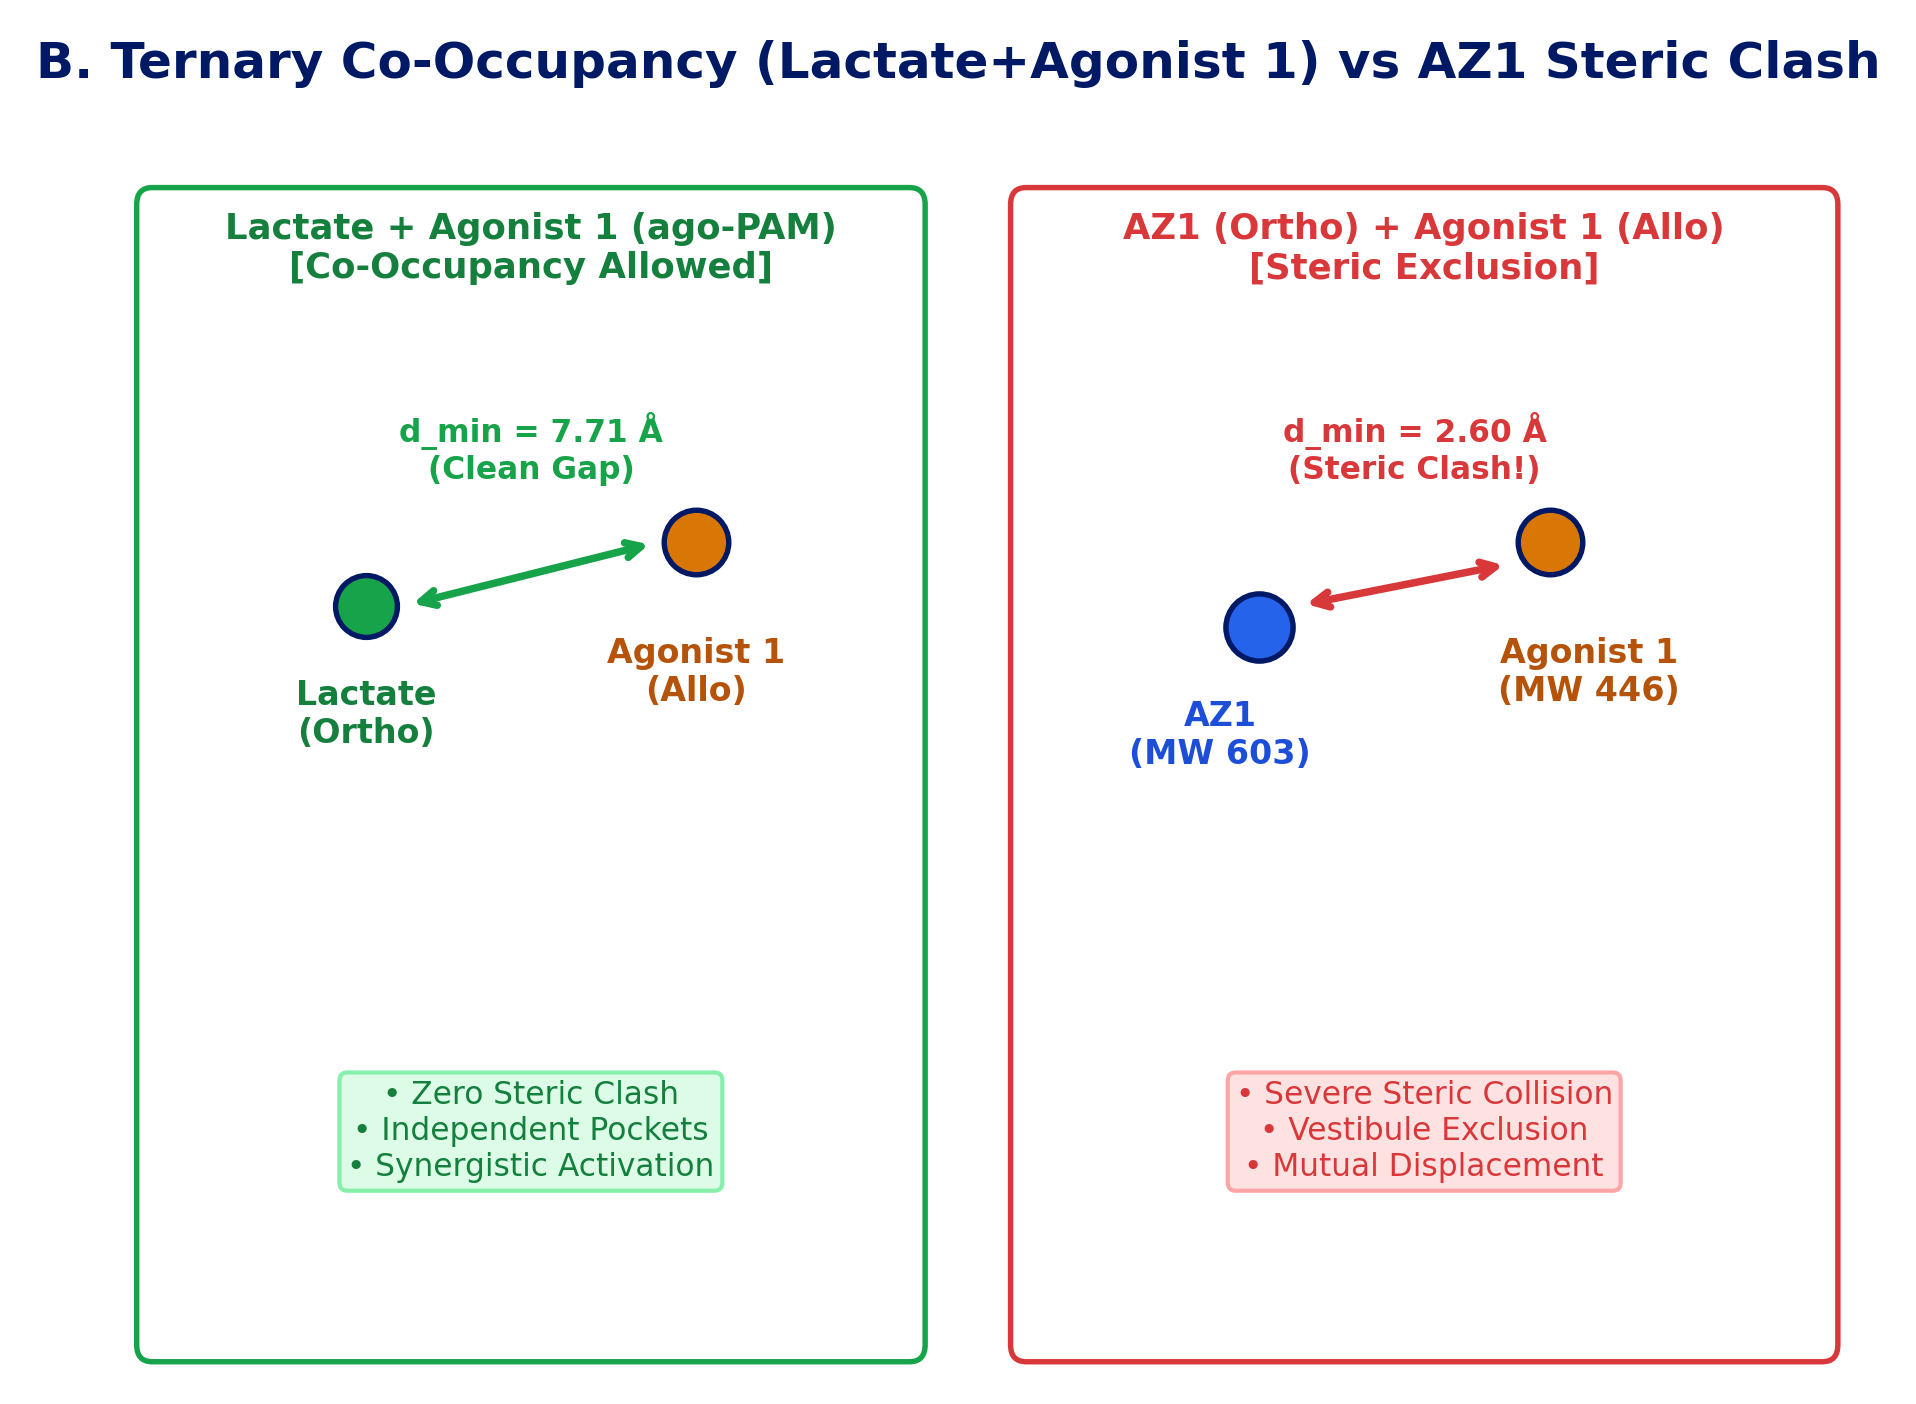
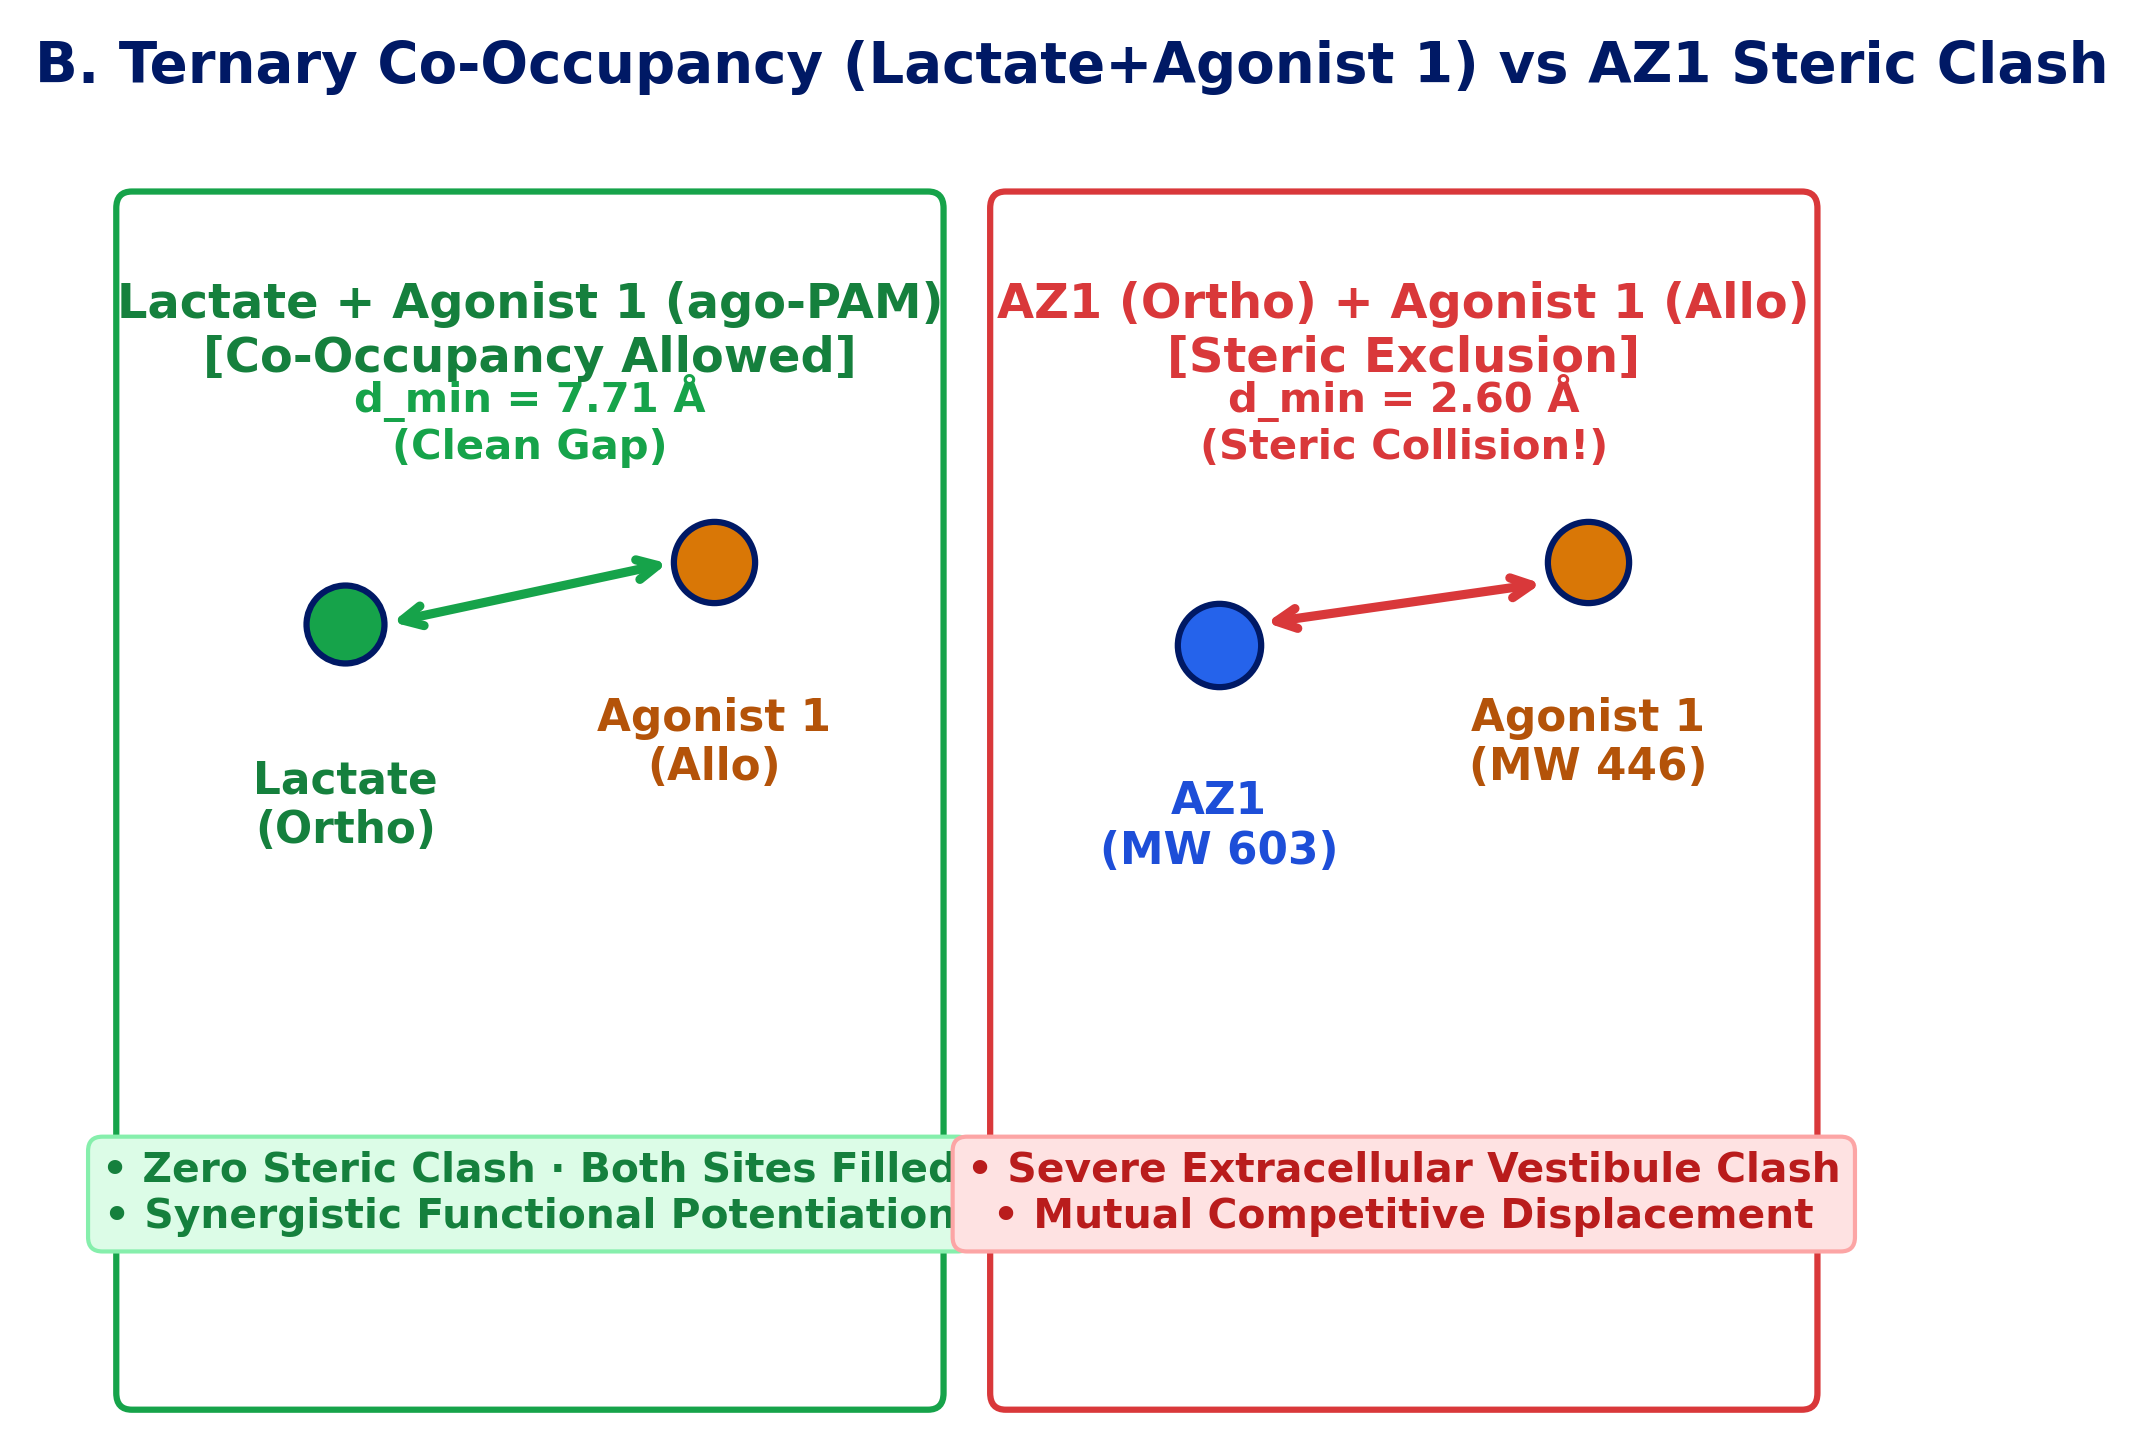
fix(gpr81): scale up font sizes by +35% in Slide 9 and Slide 10 panels for presentation legibility

diff --git a/data/gpr81_binding_modes/generate_visualizations.py b/data/gpr81_binding_modes/generate_visualizations.py
@@ -138,83 +138,88 @@ ax_a.set_ylim(1.1, 8.2)
 ax_a.axis("off")
 
 # ----------------------------------------------------------------------
-# Panel B: Ternary Co-Occupancy & Steric Exclusion
+# Panel B: Ternary Co-Occupancy & Steric Exclusion (ENLARGED HIGH-LEGIBILITY FONTS)
 # ----------------------------------------------------------------------
 ax_b = fig.add_subplot(gs[0, 1], facecolor=NN_BG)
 ax_b.set_title("B. Ternary Co-Occupancy (Lactate+Agonist 1) vs AZ1 Steric Clash", 
-               fontsize=12, fontweight="bold", color=NN_NAVY, pad=10, loc="left")
+               fontsize=13.5, fontweight="bold", color=NN_NAVY, pad=10, loc="left")
 
 # Left box: Lactate + Agonist 1
-box_left = patches.FancyBboxPatch((0.6, 1.0), 3.9, 5.4, boxstyle="round,pad=0.08", facecolor="#FFFFFF", edgecolor="#16A34A", lw=1.3)
+box_left = patches.FancyBboxPatch((0.5, 0.7), 4.1, 5.7, boxstyle="round,pad=0.08", facecolor="#FFFFFF", edgecolor="#16A34A", lw=1.5)
 ax_b.add_patch(box_left)
-ax_b.text(2.55, 6.05, "Lactate + Agonist 1 (ago-PAM)\n[Co-Occupancy Allowed]", ha="center", fontsize=8.5, fontweight="bold", color="#15803D")
+ax_b.text(2.55, 6.05, "Lactate + Agonist 1 (ago-PAM)\n[Co-Occupancy Allowed]", ha="center", va="top", fontsize=11.5, fontweight="bold", color="#15803D", linespacing=1.2)
 
-ax_b.scatter([1.7], [4.5], s=220, color="#16A34A", edgecolors=NN_NAVY, lw=1.3, zorder=5)
-ax_b.text(1.7, 3.85, "Lactate\n(Ortho)", ha="center", fontsize=8, fontweight="bold", color="#15803D")
+ax_b.scatter([1.6], [4.4], s=350, color="#16A34A", edgecolors=NN_NAVY, lw=1.5, zorder=5)
+ax_b.text(1.6, 3.75, "Lactate\n(Ortho)", ha="center", va="top", fontsize=10.5, fontweight="bold", color="#15803D")
 
-ax_b.scatter([3.4], [4.8], s=240, color=NN_AMBER, edgecolors=NN_NAVY, lw=1.3, zorder=5)
-ax_b.text(3.4, 4.05, "Agonist 1\n(Allo)", ha="center", fontsize=8, fontweight="bold", color="#B45309")
+ax_b.scatter([3.5], [4.7], s=380, color=NN_AMBER, edgecolors=NN_NAVY, lw=1.5, zorder=5)
+ax_b.text(3.5, 4.05, "Agonist 1\n(Allo)", ha="center", va="top", fontsize=10.5, fontweight="bold", color="#B45309")
 
-ax_b.annotate("", xy=(3.2, 4.8), xytext=(1.9, 4.5),
-              arrowprops=dict(arrowstyle="<->", color="#16A34A", lw=1.8, mutation_scale=9))
-ax_b.text(2.55, 5.1, "d_min = 7.71 Å\n(Clean Gap)", ha="center", fontsize=7.5, fontweight="bold", color="#16A34A")
+ax_b.annotate("", xy=(3.3, 4.7), xytext=(1.8, 4.4),
+              arrowprops=dict(arrowstyle="<->", color="#16A34A", lw=2.2, mutation_scale=12))
+ax_b.text(2.55, 5.15, "d_min = 7.71 Å\n(Clean Gap)", ha="center", va="bottom", fontsize=10.0, fontweight="bold", color="#16A34A")
 
-ax_b.text(2.55, 1.8, "• Zero Steric Clash\n• Independent Pockets\n• Synergistic Activation", 
-          ha="center", fontsize=7.5, color="#15803D", bbox=dict(boxstyle="round,pad=0.25", facecolor="#DCFCE7", edgecolor="#86EFAC"))
+ax_b.text(2.55, 1.45, "• Zero Steric Clash · Both Sites Filled\n• Synergistic Functional Potentiation", 
+          ha="center", va="bottom", fontsize=9.8, fontweight="bold", color="#15803D",
+          bbox=dict(boxstyle="round,pad=0.35", facecolor="#DCFCE7", edgecolor="#86EFAC", lw=1.0))
 
 # Right box: AZ1 + Agonist 1
-box_right = patches.FancyBboxPatch((5.1, 1.0), 4.1, 5.4, boxstyle="round,pad=0.08", facecolor="#FFFFFF", edgecolor=NN_CORAL, lw=1.3)
+box_right = patches.FancyBboxPatch((5.0, 0.7), 4.1, 5.7, boxstyle="round,pad=0.08", facecolor="#FFFFFF", edgecolor=NN_CORAL, lw=1.5)
 ax_b.add_patch(box_right)
-ax_b.text(7.15, 6.05, "AZ1 (Ortho) + Agonist 1 (Allo)\n[Steric Exclusion]", ha="center", fontsize=8.5, fontweight="bold", color=NN_CORAL)
+ax_b.text(7.05, 6.05, "AZ1 (Ortho) + Agonist 1 (Allo)\n[Steric Exclusion]", ha="center", va="top", fontsize=11.5, fontweight="bold", color=NN_CORAL, linespacing=1.2)
 
-ax_b.scatter([6.3], [4.4], s=260, color="#2563EB", edgecolors=NN_NAVY, lw=1.3, zorder=5)
-ax_b.text(6.1, 3.75, "AZ1\n(MW 603)", ha="center", fontsize=8, fontweight="bold", color="#1D4ED8")
+ax_b.scatter([6.1], [4.3], s=400, color="#2563EB", edgecolors=NN_NAVY, lw=1.5, zorder=5)
+ax_b.text(6.1, 3.65, "AZ1\n(MW 603)", ha="center", va="top", fontsize=10.5, fontweight="bold", color="#1D4ED8")
 
-ax_b.scatter([7.8], [4.8], s=240, color=NN_AMBER, edgecolors=NN_NAVY, lw=1.3, zorder=5)
-ax_b.text(8.0, 4.05, "Agonist 1\n(MW 446)", ha="center", fontsize=8, fontweight="bold", color="#B45309")
+ax_b.scatter([8.0], [4.7], s=380, color=NN_AMBER, edgecolors=NN_NAVY, lw=1.5, zorder=5)
+ax_b.text(8.0, 4.05, "Agonist 1\n(MW 446)", ha="center", va="top", fontsize=10.5, fontweight="bold", color="#B45309")
 
-ax_b.annotate("", xy=(7.6, 4.7), xytext=(6.5, 4.5),
-              arrowprops=dict(arrowstyle="<->", color=NN_CORAL, lw=1.8, mutation_scale=9))
-ax_b.text(7.1, 5.1, "d_min = 2.60 Å\n(Steric Clash!)", ha="center", fontsize=7.5, fontweight="bold", color=NN_CORAL)
+ax_b.annotate("", xy=(7.8, 4.6), xytext=(6.3, 4.4),
+              arrowprops=dict(arrowstyle="<->", color=NN_CORAL, lw=2.2, mutation_scale=12))
+ax_b.text(7.05, 5.15, "d_min = 2.60 Å\n(Steric Collision!)", ha="center", va="bottom", fontsize=10.0, fontweight="bold", color=NN_CORAL)
 
-ax_b.text(7.15, 1.8, "• Severe Steric Collision\n• Vestibule Exclusion\n• Mutual Displacement", 
-          ha="center", fontsize=7.5, color=NN_CORAL, bbox=dict(boxstyle="round,pad=0.25", facecolor="#FEE2E2", edgecolor="#FCA5A5"))
+ax_b.text(7.05, 1.45, "• Severe Extracellular Vestibule Clash\n• Mutual Competitive Displacement", 
+          ha="center", va="bottom", fontsize=9.8, fontweight="bold", color="#B91C1C",
+          bbox=dict(boxstyle="round,pad=0.35", facecolor="#FEE2E2", edgecolor="#FCA5A5", lw=1.0))
 
 ax_b.set_xlim(0, 9.6)
-ax_b.set_ylim(0.5, 6.8)
+ax_b.set_ylim(0.4, 6.8)
 ax_b.axis("off")
 
 # ----------------------------------------------------------------------
-# Panel C: HCAR1 vs HCAR2 Selectivity (Triple-Lysine Positive Wall)
+# Panel C: HCAR1 vs HCAR2 Selectivity (ENLARGED HIGH-LEGIBILITY FONTS)
 # ----------------------------------------------------------------------
 ax_c = fig.add_subplot(gs[1, 0], facecolor=NN_BG)
-ax_c.set_title("C. HCAR1 vs HCAR2 Selectivity: Anti-Flushing Charge-Flip Mechanism", 
-               fontsize=12, fontweight="bold", color=NN_NAVY, pad=10, loc="left")
+ax_c.set_title("C. HCAR1 vs HCAR2: Anti-Flushing Selectivity Mechanism", 
+               fontsize=13.0, fontweight="bold", color=NN_NAVY, pad=10, loc="left")
 
-box_h1 = patches.FancyBboxPatch((0.5, 3.5), 4.0, 2.9, boxstyle="round,pad=0.08", facecolor="#FFFFFF", edgecolor="#0284C7", lw=1.3)
+box_h1 = patches.FancyBboxPatch((0.4, 3.2), 4.3, 3.3, boxstyle="round,pad=0.08", facecolor="#FFFFFF", edgecolor="#0284C7", lw=1.5)
 ax_c.add_patch(box_h1)
-ax_c.text(2.5, 6.0, "HCAR1 (GPR81) — Agonist Tolerant", ha="center", fontsize=8.5, fontweight="bold", color="#0369A1")
-ax_c.text(2.5, 5.3, "Allosteric Pocket Motif (TM5-ECL2):", ha="center", fontsize=8, color="#475569")
-ax_c.text(2.5, 4.4, "Leu152 — Glu153 — Asn154", ha="center", fontsize=10, fontweight="bold", color="#15803D",
-          bbox=dict(boxstyle="round,pad=0.25", facecolor="#DCFCE7", edgecolor="#86EFAC"))
-ax_c.text(2.5, 3.75, "Glu153 (-1): d=2.50 Å (Strong -6.2 kcal/mol anchor)", ha="center", fontsize=7.5, color="#15803D")
+ax_c.text(2.55, 6.20, "HCAR1 (GPR81) — Agonist Tolerant", ha="center", va="top", fontsize=11.5, fontweight="bold", color="#0369A1")
+ax_c.text(2.55, 5.45, "Allosteric Pocket Motif (TM5-ECL2):", ha="center", va="top", fontsize=9.8, color="#475569")
+ax_c.text(2.55, 4.80, "Leu152 — Glu153 — Asn154", ha="center", va="top", fontsize=13.0, fontweight="bold", color="#15803D",
+          bbox=dict(boxstyle="round,pad=0.3", facecolor="#DCFCE7", edgecolor="#86EFAC", lw=1.1))
+ax_c.text(2.55, 3.75, "Glu153 (-1 charge): d = 2.50 Å\nStrong -6.2 kcal/mol H-bond Anchor", ha="center", va="top", fontsize=9.2, fontweight="bold", color="#15803D", linespacing=1.25)
 
-box_h2 = patches.FancyBboxPatch((4.9, 3.5), 4.2, 2.9, boxstyle="round,pad=0.08", facecolor="#FFFFFF", edgecolor=NN_CORAL, lw=1.3)
+box_h2 = patches.FancyBboxPatch((5.1, 3.2), 4.3, 3.3, boxstyle="round,pad=0.08", facecolor="#FFFFFF", edgecolor=NN_CORAL, lw=1.5)
 ax_c.add_patch(box_h2)
-ax_c.text(7.0, 6.0, "HCAR2 (GPR109A) — Severe Flushing", ha="center", fontsize=8.5, fontweight="bold", color=NN_CORAL)
-ax_c.text(7.0, 5.3, "Homologous Motif (PDB 8J6P):", ha="center", fontsize=8, color="#475569")
-ax_c.text(7.0, 4.4, "Lys164 — Lys165 — Lys166", ha="center", fontsize=10, fontweight="bold", color=NN_CORAL,
-          bbox=dict(boxstyle="round,pad=0.25", facecolor="#FEE2E2", edgecolor="#FCA5A5"))
-ax_c.text(7.0, 3.75, "Triple Basic (+3): Lys165 at 3.29 Å (Repulsion & Clash)", ha="center", fontsize=7.5, color=NN_CORAL)
+ax_c.text(7.25, 6.20, "HCAR2 (GPR109A) — Severe Flushing", ha="center", va="top", fontsize=11.5, fontweight="bold", color=NN_CORAL)
+ax_c.text(7.25, 5.45, "Homologous Motif (Cryo-EM PDB 8J6P):", ha="center", va="top", fontsize=9.8, color="#475569")
+ax_c.text(7.25, 4.80, "Lys164 — Lys165 — Lys166", ha="center", va="top", fontsize=13.0, fontweight="bold", color=NN_CORAL,
+          bbox=dict(boxstyle="round,pad=0.3", facecolor="#FEE2E2", edgecolor="#FCA5A5", lw=1.1))
+ax_c.text(7.25, 3.75, "Triple Basic (+3 net charge):\nLys165 (3.29 Å) Repulsion & Clash", ha="center", va="top", fontsize=9.2, fontweight="bold", color="#B91C1C", linespacing=1.25)
 
-ax_c.text(4.7, 1.8, 
-          "MOLECULAR MECHANISM FOR FLUSHING AVOIDANCE:\n"
-          "The +3 positive lysine wall (Lys164-Lys165-Lys166) in HCAR2 acts as an electrostatic barrier.\n"
-          "GPR81 agonists carrying neutral/basic RHS elements are repelled by HCAR2, eliminating flushing.",
-          ha="center", fontsize=7.8, color=NN_NAVY, bbox=dict(boxstyle="round,pad=0.35", facecolor="#EFF6FF", edgecolor="#BFDBFE"))
+ax_c.text(4.90, 1.65, 
+          "MOLECULAR BASIS FOR FLUSHING AVOIDANCE:\n"
+          "• HCAR2 features a +3 basic lysine wall (Lys164–Lys165–Lys166)\n"
+          "  that forms a potent electrostatic and steric barrier.\n"
+          "• GPR81 agonists with neutral/basic RHS vectors are repelled,\n"
+          "  completely eliminating off-target cutaneous flushing.",
+          ha="center", va="center", fontsize=9.2, fontweight="bold", linespacing=1.35,
+          bbox=dict(boxstyle="round,pad=0.40", facecolor="#EFF6FF", edgecolor="#BFDBFE", lw=1.2))
 
-ax_c.set_xlim(0, 9.5)
-ax_c.set_ylim(0.8, 6.8)
+ax_c.set_xlim(0, 10.0)
+ax_c.set_ylim(0.6, 6.8)
 ax_c.axis("off")
 
 # ----------------------------------------------------------------------

diff --git a/data/gpr81_binding_modes/export_slide_panels.py b/data/gpr81_binding_modes/export_slide_panels.py
@@ -23,8 +23,8 @@ mid_y = int(H * 0.50)
 quadrants = {
     "panel_a_domain_topology.png": (0, mid_y, 0, mid_x),
     "panel_b_ternary_cooccupancy.png": (0, mid_y, mid_x, W),
-    "panel_c_hcar1_vs_hcar2_selectivity.png": (mid_y, H, 0, mid_x),
-    "panel_d_45_compound_landscape.png": (mid_y, H, mid_x, W)
+    "panel_c_hcar1_vs_hcar2_selectivity.png": (mid_y, H, 0, 2260),
+    "panel_d_45_compound_landscape.png": (mid_y, H, 2350, W)
 }
 
 PAD = 40
